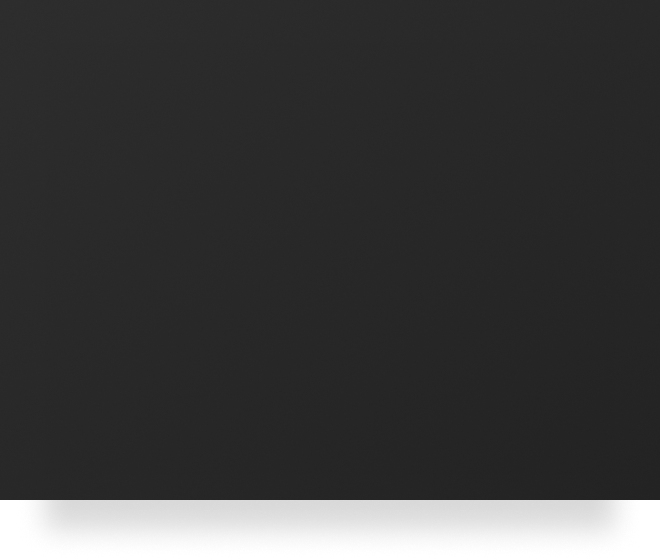
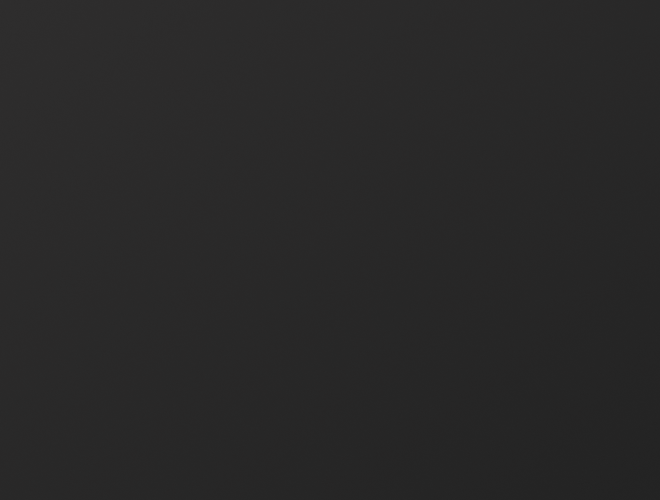
Add files via upload

Changed region(s): [[0.0, 0.87, 1.0, 1.0]]

diff --git a/iskragraphics/js/contact.js b/iskragraphics/js/contact.js
@@ -3,19 +3,33 @@ $(document).ready(function() {
 		$('#page-contact').removeClass('hide');
 		$('.block').hide().removeClass('animated');
 		$('.button').removeClass('animated');
-		$('.cp').removeClass('copyright-block');
-		$('.copyright').css({"left": "13.2%", "bottom": "3.6%"});
+		$('.copyright').removeClass('animated');
+		$('.copyright').css({"opacity": "0", "transition": "0s"});
 		$('#page-contact').addClass('contact-animation');
 		$('.all-blocks').hide();
-		$('.max').hide().removeClass('animated');	
+		$('.max').hide().removeClass('animated');
+		setTimeout(function(){	    
+    	    $('.copyright').css({"left": "13.2%", "bottom": "3.6%"});
+    	    $('.cp').removeClass('copyright-block');
+        }, 1000);
+		setTimeout(function(){	    
+    	    $('.copyright').css({"opacity": "1", "transition": "1s"});
+        }, 3000);
     });
 
 
     $('.close-contact').click(function() {
+    	$('.copyright').css({"opacity": "0", "transition": "0s"});
     	$('#page-contact').removeClass('contact-animation');
     	$('.block').show();
-		$('.cp').addClass('copyright-block');
-		$('.copyright').css({"left": "5%", "bottom": "40%"});
+    	setTimeout(function(){
+		    $('.cp').addClass('copyright-block');
+		    $('.copyright').css({"left": "5%", "bottom": "40%"});   
+        }, 1000);
+		setTimeout(function(){
+		    $('.cp').addClass('copyright-block');  
+    	    $('.copyright').css({"opacity": "1", "transition": "1s"});
+        }, 1500);
     	$('#page-contact').addClass('hide');
     	$('.all-blocks').show();
     	$('.max').show();

diff --git a/iskragraphics/index.html b/iskragraphics/index.html
@@ -40,7 +40,7 @@
           	    <div class="block animated fadeIn delay-1s">
           		    <p class="title">Welcome to<br/> iskragraphics</p>
           		    <p class="text">More than 7 years of UI/UX, branding and<br/> logotype design</p>
-          		    <button class="button animated fadeIn delay-4s" onclick="window.location.href=''">CLICK HERE</button>
+          		    <button class="button animated fadeIn delay-4s" onclick="window.location.href='portfolio.html'">CLICK HERE</button>
           	    </div>
                 <img src="img/max.png" class="max animated fadeIn delay-4s">
             </div>

diff --git a/iskragraphics/css/portfolio-block1.css b/iskragraphics/css/portfolio-block1.css
@@ -5,14 +5,14 @@
 	top: 50%;
 	transform: translate(-50%, -50%);
 }
-.content img {
-	margin-left: -25px;
-}
 .zebra-title {
 	font-size: 8.67579908675799vh;
 	color: #C8A060;
 	font-weight: bold;
 	font-family: Playfair Display;
+}
+.content img {
+	box-shadow: 0 30px 25px -35px black;
 }
 .text-content {
 	float: right;

diff --git a/iskragraphics/css/style.css b/iskragraphics/css/style.css
@@ -4,7 +4,7 @@
 	max-height: 500px;
 	position: absolute;
 	background-image: url('../img/BG.png');
-	box-shadow: 0 50px 75px -90px black;
+	box-shadow: 0 30px 25px -35px black;
 	left: 5%;
 	top: 12%;
 }

diff --git a/iskragraphics/css/portfolio.css b/iskragraphics/css/portfolio.css
@@ -21,7 +21,7 @@
 	padding-bottom: 20px;
 }
 .all-blocks a img:hover {
-	box-shadow: 0 25px 35px -20px black;
+	box-shadow: 0 25px 25px -30px black;
 	transition: .3s;
 }
 .all-blocks a {
